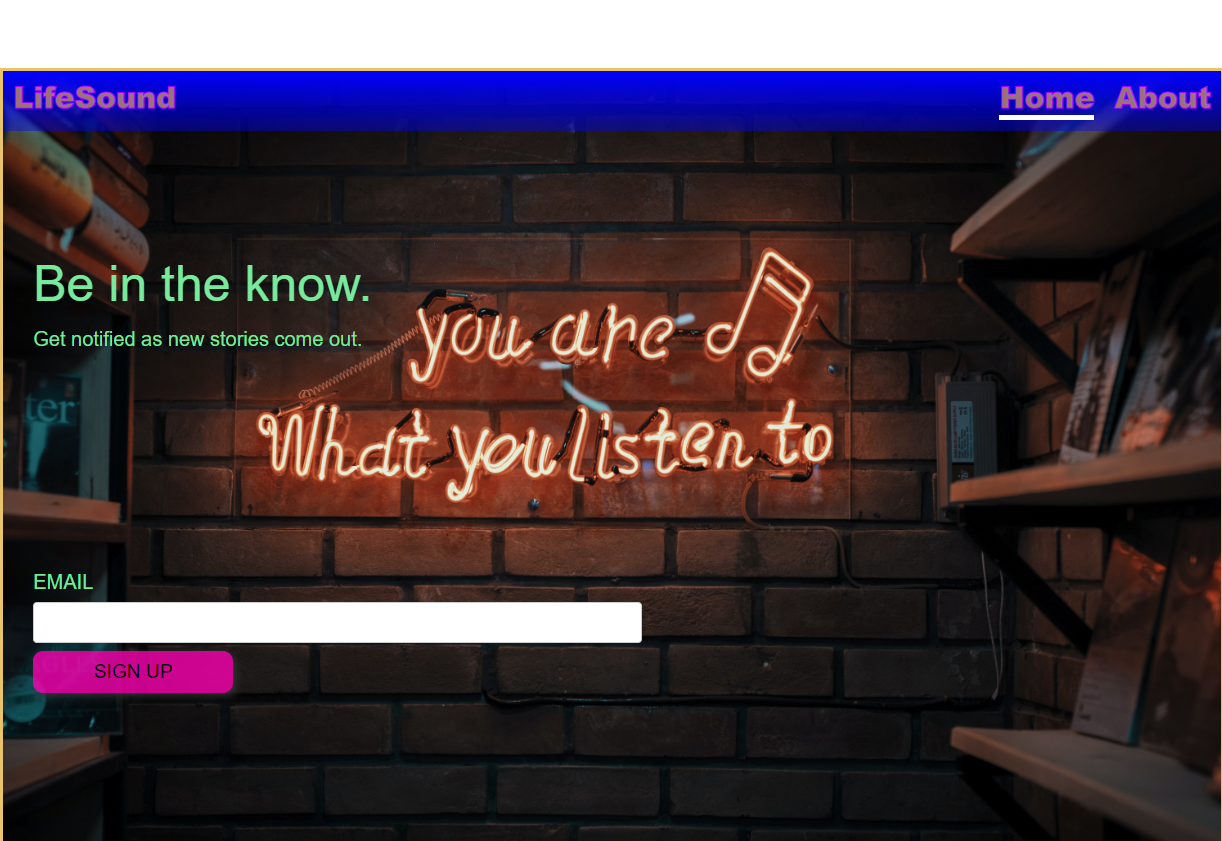
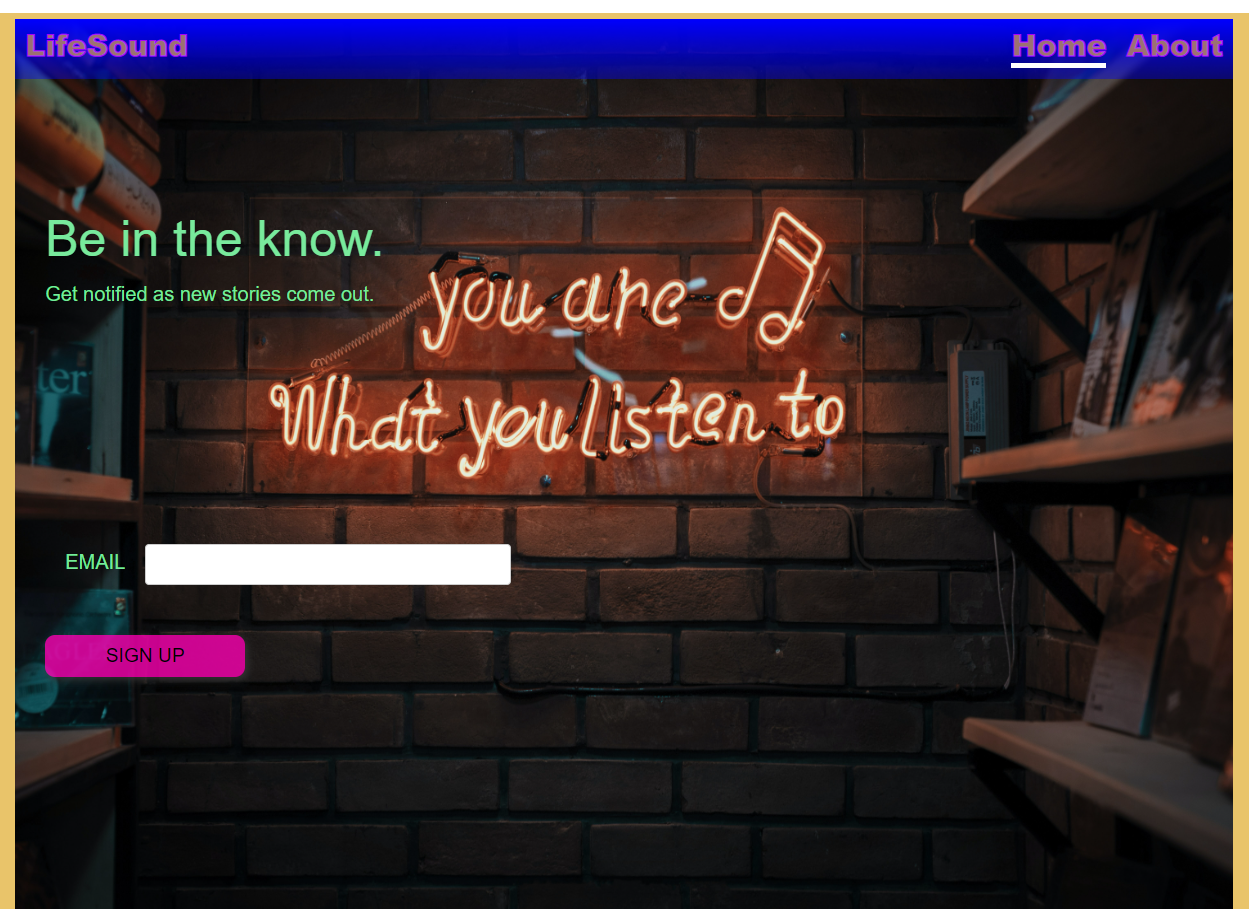
bug fixes

diff --git a/src/components/daily-ui-projects/003/Landing.module.css b/src/components/daily-ui-projects/003/Landing.module.css
@@ -62,6 +62,7 @@
 .main__label {
   font-size: 2rem;
   color: rgb(120, 234, 156);
+  margin: 2rem;
 }
 
 .h1 {
@@ -74,7 +75,9 @@
 }
 
 .main__email {
-  width: 70%;
+  width: 60% !important;
+  margin-bottom: 5rem !important;
+  margin-left: 2rem !important;
 }
 .button {
   font-size: 1vw;

diff --git a/src/components/daily-ui-projects/001/Project1.module.css b/src/components/daily-ui-projects/001/Project1.module.css
@@ -52,7 +52,7 @@ select {
   background-color: rgba(50, 170, 36, 0.736);
   padding: 15px;
   transition: all ease-in 0.22s;
-  margin-bottom: 10%;
+  margin-top: 10%;
 }
 
 .button:hover {
